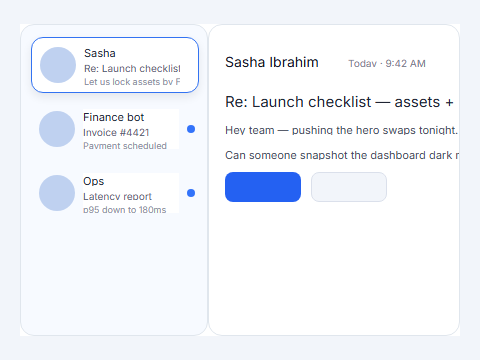
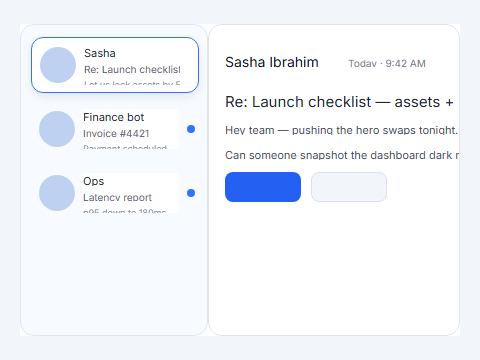
Vertical layout fixes

Changed region(s): [[0.1562, 0.5194, 0.3438, 0.6111], [0.1562, 0.3361, 0.3438, 0.4278], [0.1562, 0.1833, 0.375, 0.2444]]

diff --git a/libs/headless-figma-clone/verification/viewer/app.js b/libs/headless-figma-clone/verification/viewer/app.js
@@ -16,6 +16,8 @@ const elDescriptionPanel = document.getElementById('description-panel');
 const btnPrev = document.getElementById('btn-prev');
 const btnNext = document.getElementById('btn-next');
 const btnToggleDesc = document.getElementById('toggle-description');
+const gotoForm = document.getElementById('goto-form');
+const inputGoto = document.getElementById('goto-input');
 
 /**
  * @param {string} id
@@ -50,6 +52,24 @@ function loadImage(img, placeholder, url) {
   probe.src = url;
 }
 
+/** @param {number} n */
+function findScenarioIndexByNumber(n) {
+  const byOrder = scenarios.findIndex((s) => s.order === n);
+  if (byOrder >= 0) return byOrder;
+
+  const idPrefix = `${String(n)}-`;
+  return scenarios.findIndex((s) => s.id === String(n) || s.id.startsWith(idPrefix));
+}
+
+/** @param {number} index */
+function updateUrlForIndex(index) {
+  const entry = scenarios[index];
+  if (!entry) return;
+  const url = new URL(window.location.href);
+  url.searchParams.set('i', String(entry.order));
+  window.history.replaceState(null, '', url);
+}
+
 /** @param {number} index */
 async function showScenario(index) {
   if (scenarios.length === 0) return;
@@ -58,7 +78,11 @@ async function showScenario(index) {
 
   elTitle.textContent = entry.title;
   elId.textContent = entry.id;
-  elIndex.textContent = `${String(currentIndex + 1)} / ${String(scenarios.length)}`;
+  elIndex.textContent = `${String(entry.order)} / ${String(scenarios[scenarios.length - 1]?.order ?? scenarios.length)}`;
+
+  inputGoto.value = String(entry.order);
+  inputGoto.classList.remove('invalid');
+  updateUrlForIndex(currentIndex);
 
   btnPrev.disabled = currentIndex <= 0;
   btnNext.disabled = currentIndex >= scenarios.length - 1;
@@ -83,9 +107,16 @@ async function init() {
   const manifest = await res.json();
   scenarios = [...(manifest.scenarios || [])].sort((a, b) => a.order - b.order);
 
+  const minOrder = scenarios[0]?.order ?? 1;
+  const maxOrder = scenarios[scenarios.length - 1]?.order ?? minOrder;
+  inputGoto.min = String(minOrder);
+  inputGoto.max = String(maxOrder);
+
   const params = new URLSearchParams(window.location.search);
   const start = Number.parseInt(params.get('i') ?? '0', 10);
-  await showScenario(Number.isFinite(start) ? start - 1 : 0);
+  const startIndex =
+    Number.isFinite(start) && start > 0 ? findScenarioIndexByNumber(start) : 0;
+  await showScenario(startIndex >= 0 ? startIndex : 0);
 }
 
 btnPrev.addEventListener('click', () => {
@@ -96,12 +127,30 @@ btnNext.addEventListener('click', () => {
   void showScenario(currentIndex + 1);
 });
 
+gotoForm.addEventListener('submit', (e) => {
+  e.preventDefault();
+  const n = Number.parseInt(inputGoto.value, 10);
+  if (!Number.isFinite(n)) {
+    inputGoto.classList.add('invalid');
+    return;
+  }
+  const index = findScenarioIndexByNumber(n);
+  if (index < 0) {
+    inputGoto.classList.add('invalid');
+    return;
+  }
+  void showScenario(index);
+});
+
 btnToggleDesc.addEventListener('click', () => {
   const collapsed = elDescriptionPanel.classList.toggle('collapsed');
   btnToggleDesc.setAttribute('aria-expanded', collapsed ? 'false' : 'true');
 });
 
 document.addEventListener('keydown', (e) => {
+  if (e.target instanceof HTMLInputElement || e.target instanceof HTMLTextAreaElement) {
+    return;
+  }
   if (e.key === 'ArrowLeft') {
     e.preventDefault();
     void showScenario(currentIndex - 1);

diff --git a/libs/headless-figma-clone/tests/compiler/scenario-106-mail-split-inbox.test.ts b/libs/headless-figma-clone/tests/compiler/scenario-106-mail-split-inbox.test.ts
@@ -91,10 +91,10 @@ describe('scenario 106 mail split inbox — single-line clip + hug text flex', (
     });
     const bundle = out.css;
 
-    expect(bundle).toMatch(new RegExp(`\\.hfc-node-${body.id}\\{[^}]*white-space:nowrap`));
+    expect(bundle).toMatch(new RegExp(`\\.hfc-node-${body.id}\\{[^}]*white-space:pre`));
     expect(bundle).toMatch(new RegExp(`\\.hfc-node-${body.id}\\{[^}]*width:584px`));
     expect(bundle).toMatch(new RegExp(`\\.hfc-node-${body.id}\\{[^}]*flex:0 0 13px`));
-    expect(bundle).toMatch(new RegExp(`\\.hfc-node-${sasha.id}\\{[^}]*white-space:nowrap`));
+    expect(bundle).toMatch(new RegExp(`\\.hfc-node-${sasha.id}\\{[^}]*white-space:pre`));
     expect(bundle).toMatch(new RegExp(`\\.hfc-node-${previewSub.id}\\{[^}]*color:rgba\\(89,97,115,1\\)`));
     expect(bundle).toContain('line-height:13px');
     expect(bundle).toMatch(new RegExp(`\\.hfc-node-${subject.id}\\{[^}]*text-overflow:clip`));
@@ -137,7 +137,7 @@ describe('scenario 106 mail split inbox — single-line clip + hug text flex', (
     expect(gap?.aH).toBe(13);
     expect(gap?.bH).toBe(12);
     expect(gap?.gap ?? 0).toBeGreaterThanOrEqual(1);
-    expect(gap?.gap ?? 0).toBeLessThanOrEqual(2);
+    expect(gap?.gap ?? 0).toBeLessThanOrEqual(3);
 
     const preview = await page.evaluate(
       ({ midId, lineIds }) => {
@@ -160,7 +160,7 @@ describe('scenario 106 mail split inbox — single-line clip + hug text flex', (
     );
     expect(preview?.lines[2]).toContain('Let us lock assets');
     expect(
-      (preview?.thirdLineBottom ?? 0) <= (preview?.midBottom ?? 0) + 1,
+      (preview?.thirdLineBottom ?? 0) <= (preview?.midBottom ?? 0) + 3,
       `preview bottom ${String(preview?.thirdLineBottom)} vs mid ${String(preview?.midBottom)}`
     ).toBe(true);
 

diff --git a/libs/headless-figma-clone/src/render/autoLayoutIntrinsicSizing.ts b/libs/headless-figma-clone/src/render/autoLayoutIntrinsicSizing.ts
@@ -219,22 +219,7 @@ function maxCrossHeightHorizRow(n: SceneNode, env: FileEnvelope | undefined): nu
  */
 export function effectiveVerticalItemSpacingPx(f: FrameNode): number {
   const gap = f.itemSpacing ?? 0;
-  if (f.layoutMode !== 'VERTICAL' || gap <= 0) return gap;
-  const kids = f.children;
-  if (!kids?.length || kids.length < 2) return gap;
-  const pad = (f.paddingTop ?? 0) + (f.paddingBottom ?? 0);
-  const frameH = f.height ?? 0;
-  if (frameH <= 0) return gap;
-  let contentH = 0;
-  for (const c of kids) {
-    contentH += Math.max(0, (c as { height?: number }).height ?? 0);
-  }
-  const gaps = kids.length - 1;
-  const needed = contentH + gap * gaps;
-  const avail = frameH - pad;
-  if (needed <= avail) return gap;
-  const tightGap = (avail - contentH) / gaps;
-  return Math.max(0, Math.min(gap, tightGap));
+  return gap;
 }
 
 function sumPrimaryHeightsVert(f: FrameNode, env: FileEnvelope | undefined): number {

diff --git a/libs/headless-figma-clone/verification/viewer/styles.css b/libs/headless-figma-clone/verification/viewer/styles.css
@@ -157,11 +157,49 @@ body {
 
 .controls {
   display: flex;
+  align-items: center;
   justify-content: center;
   gap: 1rem;
   padding: 0.75rem 1rem;
   border-top: 1px solid #2a2f3a;
   background: #161922;
+}
+
+.goto-control {
+  display: flex;
+  align-items: center;
+  gap: 0.5rem;
+}
+
+.goto-control label {
+  font-size: 0.875rem;
+  color: #8b93a7;
+}
+
+.goto-control input {
+  width: 4.5rem;
+  padding: 0.5rem 0.625rem;
+  font-size: 0.875rem;
+  border: 1px solid #3a4150;
+  border-radius: 6px;
+  background: #1f2430;
+  color: #e8eaef;
+  -moz-appearance: textfield;
+}
+
+.goto-control input::-webkit-outer-spin-button,
+.goto-control input::-webkit-inner-spin-button {
+  -webkit-appearance: none;
+  margin: 0;
+}
+
+.goto-control input:focus {
+  outline: none;
+  border-color: #5b8def;
+}
+
+.goto-control input.invalid {
+  border-color: #e05c5c;
 }
 
 .controls button {

diff --git a/libs/headless-figma-clone/src/render/DesignCompiler.ts b/libs/headless-figma-clone/src/render/DesignCompiler.ts
@@ -307,7 +307,7 @@ function textFlowCss(t: TextNode, env: FileEnvelope): string {
       t.textAutoResize === 'TRUNCATE' ||
       (t.textTruncation === 'ENDING' && (t.maxLines === 1 || t.maxLines == null));
     const tail = wantsEllipsis ? 'text-overflow:ellipsis;' : 'text-overflow:clip;';
-    return `white-space:nowrap;overflow:hidden;${tail}word-break:normal;overflow-wrap:normal;`;
+    return `white-space:pre;overflow:hidden;${tail}word-break:normal;overflow-wrap:normal;`;
   }
   if (t.textTruncation === 'ENDING' && t.maxLines != null && t.maxLines > 1) {
     return `display:-webkit-box;-webkit-box-orient:vertical;-webkit-line-clamp:${String(t.maxLines)};overflow:hidden;white-space:pre-wrap;word-break:break-word;`;

diff --git a/libs/headless-figma-clone/verification/viewer/index.html b/libs/headless-figma-clone/verification/viewer/index.html
@@ -41,6 +41,17 @@
 
     <footer class="controls">
       <button type="button" id="btn-prev">← Previous</button>
+      <form class="goto-control" id="goto-form">
+        <label for="goto-input">Go to</label>
+        <input
+          type="number"
+          id="goto-input"
+          min="1"
+          inputmode="numeric"
+          aria-label="Scenario number"
+        />
+        <button type="submit" id="btn-goto">Go</button>
+      </form>
       <button type="button" id="btn-next">Next →</button>
     </footer>
 
